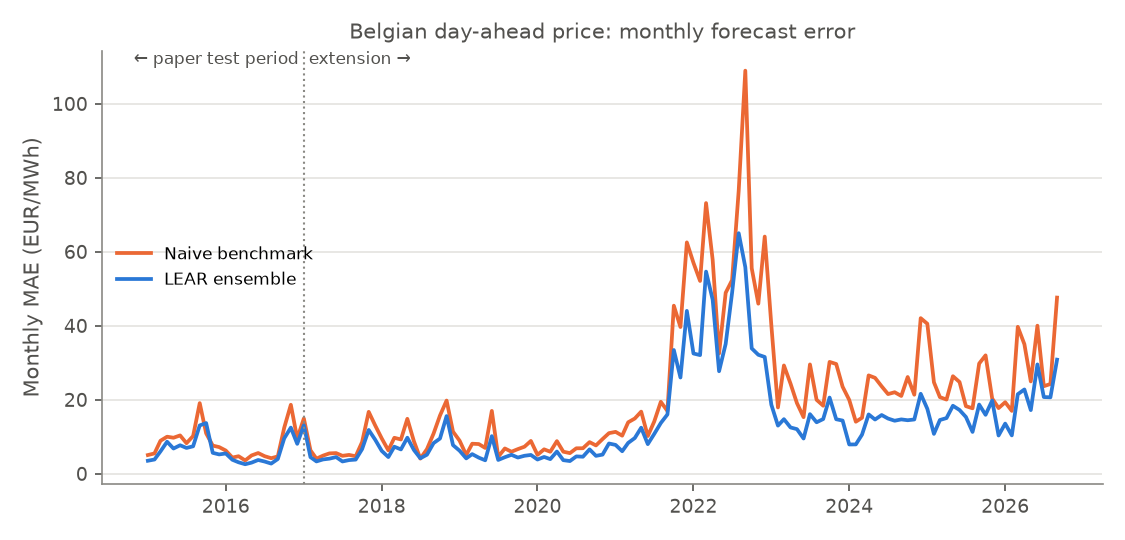
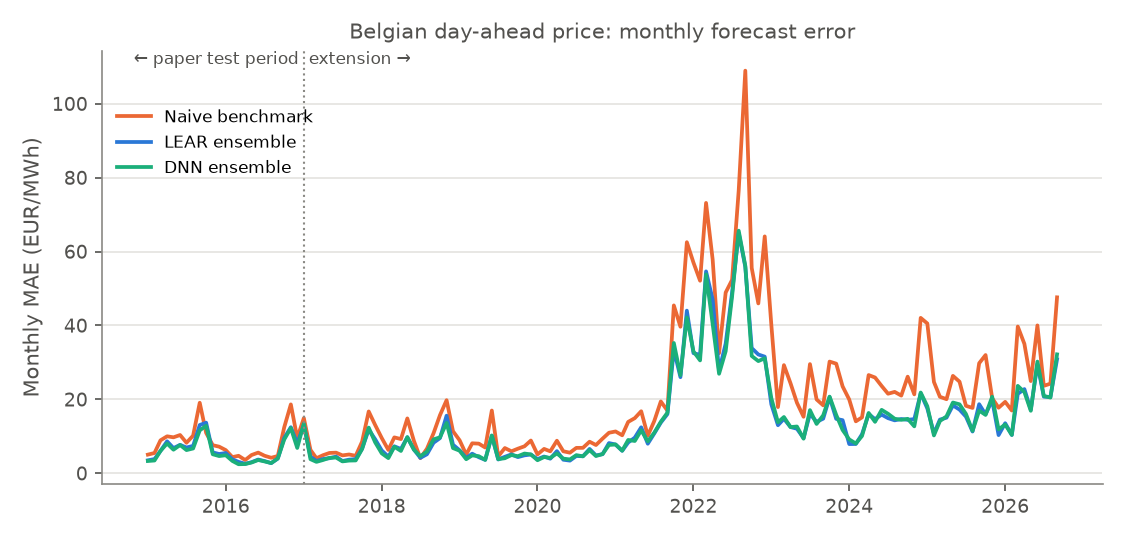
docs(readme): the DNN everywhere in the README

Changed region(s): [[0.0933, 0.4148, 0.9644, 0.8889], [0.0933, 0.2074, 0.28, 0.3259], [0.0933, 0.4444, 0.28, 0.5333]]

diff --git a/scripts/make_report.py b/scripts/make_report.py
@@ -37,6 +37,7 @@ PAPER_WINDOWS = [56, 84, 1092, 1456]
 
 # Reference palette (dataviz skill, light mode): categorical slots 1-3 + neutral ink.
 BLUE, ORANGE, GREY, INK = "#2a78d6", "#eb6834", "#8a8984", "#52514e"
+AQUA = "#1baf7a"  # categorical slot 3
 
 
 def load(name: str) -> pd.DataFrame | None:
@@ -112,6 +113,7 @@ def dnn_block(phase: str, real, lear_ens, naive, missing: list[str], published=N
         P = published["DNN Ensemble"].to_numpy()
         out["published"] = {
             **{f"DNN {n} MAE": mae(real, published[k]) for n, k in DNNS.items()},
+            **{f"DNN {n} gap to published": mae(published[k], fcs[n]) for n, k in DNNS.items()},
             "DNN Ens. MAE": mae(real, published["DNN Ensemble"]),
             "mean abs gap of the ensemble to published": mae(published["DNN Ensemble"], ens),
             "gw_p_ours_better_than_published": float(gw_test(R, P, E)[1]),
@@ -187,6 +189,7 @@ def phase_b(missing: list[str]) -> tuple[dict | None, list[str], tuple | None]:
     dnn = dnn_block("B", real, ens, naive, missing)
     if dnn is not None:
         out["dnn"] = dnn[0]
+    dnn_ens = None if dnn is None else dnn[1]
     md = [
         f"## Phase B: 4-window LEAR on BE.csv + ENTSO-E data, {begin} to {end}",
         f"{len(real)} of {out['test_days']} test days evaluated (days depending on a "
@@ -198,19 +201,26 @@ def phase_b(missing: list[str]) -> tuple[dict | None, list[str], tuple | None]:
     ]
     if "dnn" in out:
         md += ["### Phase B: our DNNs", "```", json.dumps(out["dnn"], indent=1), "```", ""]
-    return out, md, (real, ens, naive)
+    return out, md, (real, ens, naive, dnn_ens)
+
+
+def _xy(series: pd.Series):
+    return series.index, series.to_numpy()
 
 
 def monthly_figure(phase_a: tuple, phase_b_frames: tuple | None) -> None:
-    """Monthly MAE of the LEAR ensemble and the naive forecast, phase A then phase B."""
+    """Monthly MAE of the LEAR and DNN ensembles and the naive forecast, phase A then B."""
     frames = [phase_a] if phase_b_frames is None else [phase_a, phase_b_frames]
-    real, ens, naive = (pd.concat(parts) for parts in zip(*frames, strict=True))
-    abs_n = (real - naive).abs().mean(axis=1).resample("MS").mean()
-    abs_e = (real - ens).abs().mean(axis=1).resample("MS").mean()
+    real, ens, naive = (pd.concat(parts) for parts in list(zip(*frames, strict=True))[:3])
+    monthly = lambda f: (real - f).abs().mean(axis=1).resample("MS").mean()  # noqa: E731
     fig, ax = plt.subplots(figsize=(7.5, 3.6), dpi=150)
     style(ax)
-    ax.plot(abs_n.index, abs_n, color=ORANGE, lw=1.8, label="Naive benchmark")
-    ax.plot(abs_e.index, abs_e, color=BLUE, lw=1.8, label="LEAR ensemble")
+    ax.plot(*_xy(monthly(naive)), color=ORANGE, lw=1.8, label="Naive benchmark")
+    ax.plot(*_xy(monthly(ens)), color=BLUE, lw=1.8, label="LEAR ensemble")
+    # DNN ensemble, when both phases (or phase A alone) have it.
+    if all(len(f) > 3 and f[3] is not None for f in frames):
+        dnn = pd.concat([f[3] for f in frames])
+        ax.plot(*_xy(monthly(dnn)), color=AQUA, lw=1.8, label="DNN ensemble")
     if phase_b_frames is not None:
         start = phase_b_frames[0].index[0]
         ax.axvline(start, color=GREY, lw=1, ls=":")
@@ -226,7 +236,7 @@ def monthly_figure(phase_a: tuple, phase_b_frames: tuple | None) -> None:
         )
     ax.set_ylabel("Monthly MAE (EUR/MWh)", color=INK)
     ax.set_title("Belgian day-ahead price: monthly forecast error", color=INK, fontsize=10)
-    ax.legend(frameon=False, fontsize=8, loc="center left")
+    ax.legend(frameon=False, fontsize=8, loc="upper left", bbox_to_anchor=(0, 0.9))
     fig.tight_layout()
     fig.savefig(FIG / "monthly_mae.png")
     plt.close(fig)
@@ -371,7 +381,8 @@ def main() -> None:
 
     out["phase_b"], md_b, frames_b = phase_b(missing)
     md += md_b
-    monthly_figure((real, ens, naive), frames_b)
+    dnn_ens_a = None if dnn is None else dnn[1]
+    monthly_figure((real, ens, naive, dnn_ens_a), frames_b)
     # Decision rule: deploy the LEAR ensemble if it beats the naive forecast on the whole
     # phase B test (one-sided multivariate GW, 5 %).
     if out["phase_b"] is not None:

diff --git a/docs/README.template.md b/docs/README.template.md
@@ -6,11 +6,13 @@
 
 ## Question
 
-1. **Reproduction.** Does this implementation reproduce the LEAR benchmark of Lago et al.
-   (2021) on the Belgian market, and by how many EUR/MWh does the 4-window LEAR ensemble
-   beat the naive forecast on the paper's test period (2015–2016)?
-2. **Today's market.** Does the same protocol, unchanged, still beat the naive forecast
-   when it is continued day after day from the end of the paper's test period to today
+1. **Reproduction.** Does this implementation reproduce the two benchmark models of Lago
+   et al. (2021) on the Belgian market, the LEAR and the DNN, and by how many EUR/MWh does
+   the 4-window LEAR ensemble beat the naive forecast on the paper's test period
+   (2015–2016)?
+2. **Today's market.** Does the same protocol, unchanged, still beat the naive forecast,
+   and is the DNN still more accurate than the LEAR, when both are continued day after day
+   from the end of the paper's test period to today
    ({{phase_b/test_period/0}} to {{phase_b/test_period/1}}: 2022 crisis, negative prices,
    15-minute products)?
 3. **Tool.** Can it run every day on its own and be served reliably? → **[Live forecast
@@ -80,9 +82,15 @@ those used before June 2024 (d-1, d-2):
 | LEAR ensemble | {{reproduction/LEAR Ensemble/MAE (ours)}} | {{reproduction/LEAR Ensemble/MAE (published)}} | {{reproduction/LEAR Ensemble/mean abs gap to published}} |
 | LEAR 56, lags d-1/d-2 | {{reproduction/LEAR 56, pre-2024 exogenous lags (d-1, d-2)/MAE (ours)}} | {{reproduction/LEAR 56, pre-2024 exogenous lags (d-1, d-2)/MAE (published)}} | {{reproduction/LEAR 56, pre-2024 exogenous lags (d-1, d-2)/mean abs gap to published}} |
 | LEAR 84, lags d-1/d-2 | {{reproduction/LEAR 84, pre-2024 exogenous lags (d-1, d-2)/MAE (ours)}} | {{reproduction/LEAR 84, pre-2024 exogenous lags (d-1, d-2)/MAE (published)}} | {{reproduction/LEAR 84, pre-2024 exogenous lags (d-1, d-2)/mean abs gap to published}} |
+| DNN 1 (`SF`) | {{dnn/accuracy/DNN SF/MAE}} | {{dnn/published/DNN SF MAE}} | {{dnn/published/DNN SF gap to published}} |
+| DNN 2 (`SF_DA`) | {{dnn/accuracy/DNN SF_DA/MAE}} | {{dnn/published/DNN SF_DA MAE}} | {{dnn/published/DNN SF_DA gap to published}} |
+| DNN 3 (`SF_SF`) | {{dnn/accuracy/DNN SF_SF/MAE}} | {{dnn/published/DNN SF_SF MAE}} | {{dnn/published/DNN SF_SF gap to published}} |
+| DNN 4 (`SF_SF_DA`) | {{dnn/accuracy/DNN SF_SF_DA/MAE}} | {{dnn/published/DNN SF_SF_DA MAE}} | {{dnn/published/DNN SF_SF_DA gap to published}} |
+| DNN ensemble | {{dnn/accuracy/DNN Ens./MAE}} | {{dnn/published/DNN Ens. MAE}} | {{dnn/published/mean abs gap of the ensemble to published}} |
 
 The long windows match the published MAE closely; the gap comes from the short windows,
-fitted on fewer samples than inputs.
+fitted on fewer samples than inputs. The DNN rows are discussed below; DNN 1 to 4 are the
+networks of the four published trial files, in their order.
 
 ### DNN of the paper
 
@@ -123,6 +131,10 @@ recent data; only the daily training is computed, for every test day.
 | LEAR 1092 | {{accuracy/LEAR 1092/MAE}} | {{accuracy/LEAR 1092/RMSE}} | {{accuracy/LEAR 1092/sMAPE_pct}} | {{accuracy/LEAR 1092/rMAE}} |
 | LEAR 1456 | {{accuracy/LEAR 1456/MAE}} | {{accuracy/LEAR 1456/RMSE}} | {{accuracy/LEAR 1456/sMAPE_pct}} | {{accuracy/LEAR 1456/rMAE}} |
 | **LEAR ensemble** | **{{accuracy/LEAR Ens./MAE}}** | **{{accuracy/LEAR Ens./RMSE}}** | **{{accuracy/LEAR Ens./sMAPE_pct}}** | **{{accuracy/LEAR Ens./rMAE}}** |
+| DNN 1 (`SF`) | {{dnn/accuracy/DNN SF/MAE}} | {{dnn/accuracy/DNN SF/RMSE}} | {{dnn/accuracy/DNN SF/sMAPE_pct}} | {{dnn/accuracy/DNN SF/rMAE}} |
+| DNN 2 (`SF_DA`) | {{dnn/accuracy/DNN SF_DA/MAE}} | {{dnn/accuracy/DNN SF_DA/RMSE}} | {{dnn/accuracy/DNN SF_DA/sMAPE_pct}} | {{dnn/accuracy/DNN SF_DA/rMAE}} |
+| DNN 3 (`SF_SF`) | {{dnn/accuracy/DNN SF_SF/MAE}} | {{dnn/accuracy/DNN SF_SF/RMSE}} | {{dnn/accuracy/DNN SF_SF/sMAPE_pct}} | {{dnn/accuracy/DNN SF_SF/rMAE}} |
+| DNN 4 (`SF_SF_DA`) | {{dnn/accuracy/DNN SF_SF_DA/MAE}} | {{dnn/accuracy/DNN SF_SF_DA/RMSE}} | {{dnn/accuracy/DNN SF_SF_DA/sMAPE_pct}} | {{dnn/accuracy/DNN SF_SF_DA/rMAE}} |
 | **DNN ensemble** | **{{dnn/accuracy/DNN Ens./MAE}}** | **{{dnn/accuracy/DNN Ens./RMSE}}** | **{{dnn/accuracy/DNN Ens./sMAPE_pct}}** | **{{dnn/accuracy/DNN Ens./rMAE}}** |
 
 - **LEAR ensemble vs naive: −{{headline/ensemble_vs_naive_EUR_MWh}} EUR/MWh
@@ -150,6 +162,10 @@ of hours with a negative price.
 | LEAR 1092 | {{phase_b/accuracy/MAE LEAR 1092}} |
 | LEAR 1456 | {{phase_b/accuracy/MAE LEAR 1456}} |
 | **LEAR ensemble** | **{{phase_b/accuracy/MAE LEAR ens.}}** |
+| DNN 1 (`SF`) | {{phase_b/dnn/accuracy/DNN SF/MAE}} |
+| DNN 2 (`SF_DA`) | {{phase_b/dnn/accuracy/DNN SF_DA/MAE}} |
+| DNN 3 (`SF_SF`) | {{phase_b/dnn/accuracy/DNN SF_SF/MAE}} |
+| DNN 4 (`SF_SF_DA`) | {{phase_b/dnn/accuracy/DNN SF_SF_DA/MAE}} |
 | **DNN ensemble** | **{{phase_b/dnn/accuracy/DNN Ens./MAE}}** |
 
 - **LEAR ensemble vs naive: −{{phase_b/accuracy/gain vs naive (EUR per MWh)}} EUR/MWh

diff --git a/README.md b/README.md
@@ -6,11 +6,13 @@
 
 ## Question
 
-1. **Reproduction.** Does this implementation reproduce the LEAR benchmark of Lago et al.
-   (2021) on the Belgian market, and by how many EUR/MWh does the 4-window LEAR ensemble
-   beat the naive forecast on the paper's test period (2015–2016)?
-2. **Today's market.** Does the same protocol, unchanged, still beat the naive forecast
-   when it is continued day after day from the end of the paper's test period to today
+1. **Reproduction.** Does this implementation reproduce the two benchmark models of Lago
+   et al. (2021) on the Belgian market, the LEAR and the DNN, and by how many EUR/MWh does
+   the 4-window LEAR ensemble beat the naive forecast on the paper's test period
+   (2015–2016)?
+2. **Today's market.** Does the same protocol, unchanged, still beat the naive forecast,
+   and is the DNN still more accurate than the LEAR, when both are continued day after day
+   from the end of the paper's test period to today
    (2017-01-01 to 2026-09-30: 2022 crisis, negative prices,
    15-minute products)?
 3. **Tool.** Can it run every day on its own and be served reliably? → **[Live forecast
@@ -80,9 +82,15 @@ those used before June 2024 (d-1, d-2):
 | LEAR ensemble | 6.28 | 6.14 | 0.88 |
 | LEAR 56, lags d-1/d-2 | 7.25 | 6.92 | 2.29 |
 | LEAR 84, lags d-1/d-2 | 7.28 | 6.80 | 2.47 |
+| DNN 1 (`SF`) | 6.36 | 6.30 | 1.64 |
+| DNN 2 (`SF_DA`) | 6.22 | 6.31 | 2.04 |
+| DNN 3 (`SF_SF`) | 6.34 | 6.30 | 1.27 |
+| DNN 4 (`SF_SF_DA`) | 6.06 | 6.07 | 1.69 |
+| DNN ensemble | 5.85 | 5.87 | 0.87 |
 
 The long windows match the published MAE closely; the gap comes from the short windows,
-fitted on fewer samples than inputs.
+fitted on fewer samples than inputs. The DNN rows are discussed below; DNN 1 to 4 are the
+networks of the four published trial files, in their order.
 
 ### DNN of the paper
 
@@ -123,6 +131,10 @@ recent data; only the daily training is computed, for every test day.
 | LEAR 1092 | 6.61 | 16.47 | 16.92 | 0.80 |
 | LEAR 1456 | 6.65 | 16.42 | 17.36 | 0.81 |
 | **LEAR ensemble** | **6.28** | **16.04** | **14.97** | **0.76** |
+| DNN 1 (`SF`) | 6.36 | 16.88 | 14.53 | 0.77 |
+| DNN 2 (`SF_DA`) | 6.22 | 16.53 | 14.48 | 0.76 |
+| DNN 3 (`SF_SF`) | 6.34 | 16.22 | 14.99 | 0.77 |
+| DNN 4 (`SF_SF_DA`) | 6.06 | 15.91 | 14.08 | 0.74 |
 | **DNN ensemble** | **5.85** | **16.03** | **13.35** | **0.71** |
 
 - **LEAR ensemble vs naive: −1.92 EUR/MWh
@@ -150,6 +162,10 @@ of hours with a negative price.
 | LEAR 1092 | 15.65 |
 | LEAR 1456 | 15.55 |
 | **LEAR ensemble** | **14.52** |
+| DNN 1 (`SF`) | 15.61 |
+| DNN 2 (`SF_DA`) | 15.65 |
+| DNN 3 (`SF_SF`) | 16.55 |
+| DNN 4 (`SF_SF_DA`) | 15.40 |
 | **DNN ensemble** | **14.46** |
 
 - **LEAR ensemble vs naive: −7.34 EUR/MWh

diff --git a/results/summary.md b/results/summary.md
@@ -117,6 +117,10 @@
   "DNN SF_DA MAE": 6.307692510410325,
   "DNN SF_SF MAE": 6.296795916515829,
   "DNN SF_SF_DA MAE": 6.067794724366603,
+  "DNN SF gap to published": 1.639997133024722,
+  "DNN SF_DA gap to published": 2.039636807502504,
+  "DNN SF_SF gap to published": 1.2719471064169152,
+  "DNN SF_SF_DA gap to published": 1.69067160941576,
   "DNN Ens. MAE": 5.869865859211076,
   "mean abs gap of the ensemble to published": 0.8730507902159986,
   "gw_p_ours_better_than_published": 0.7144963396167451,
